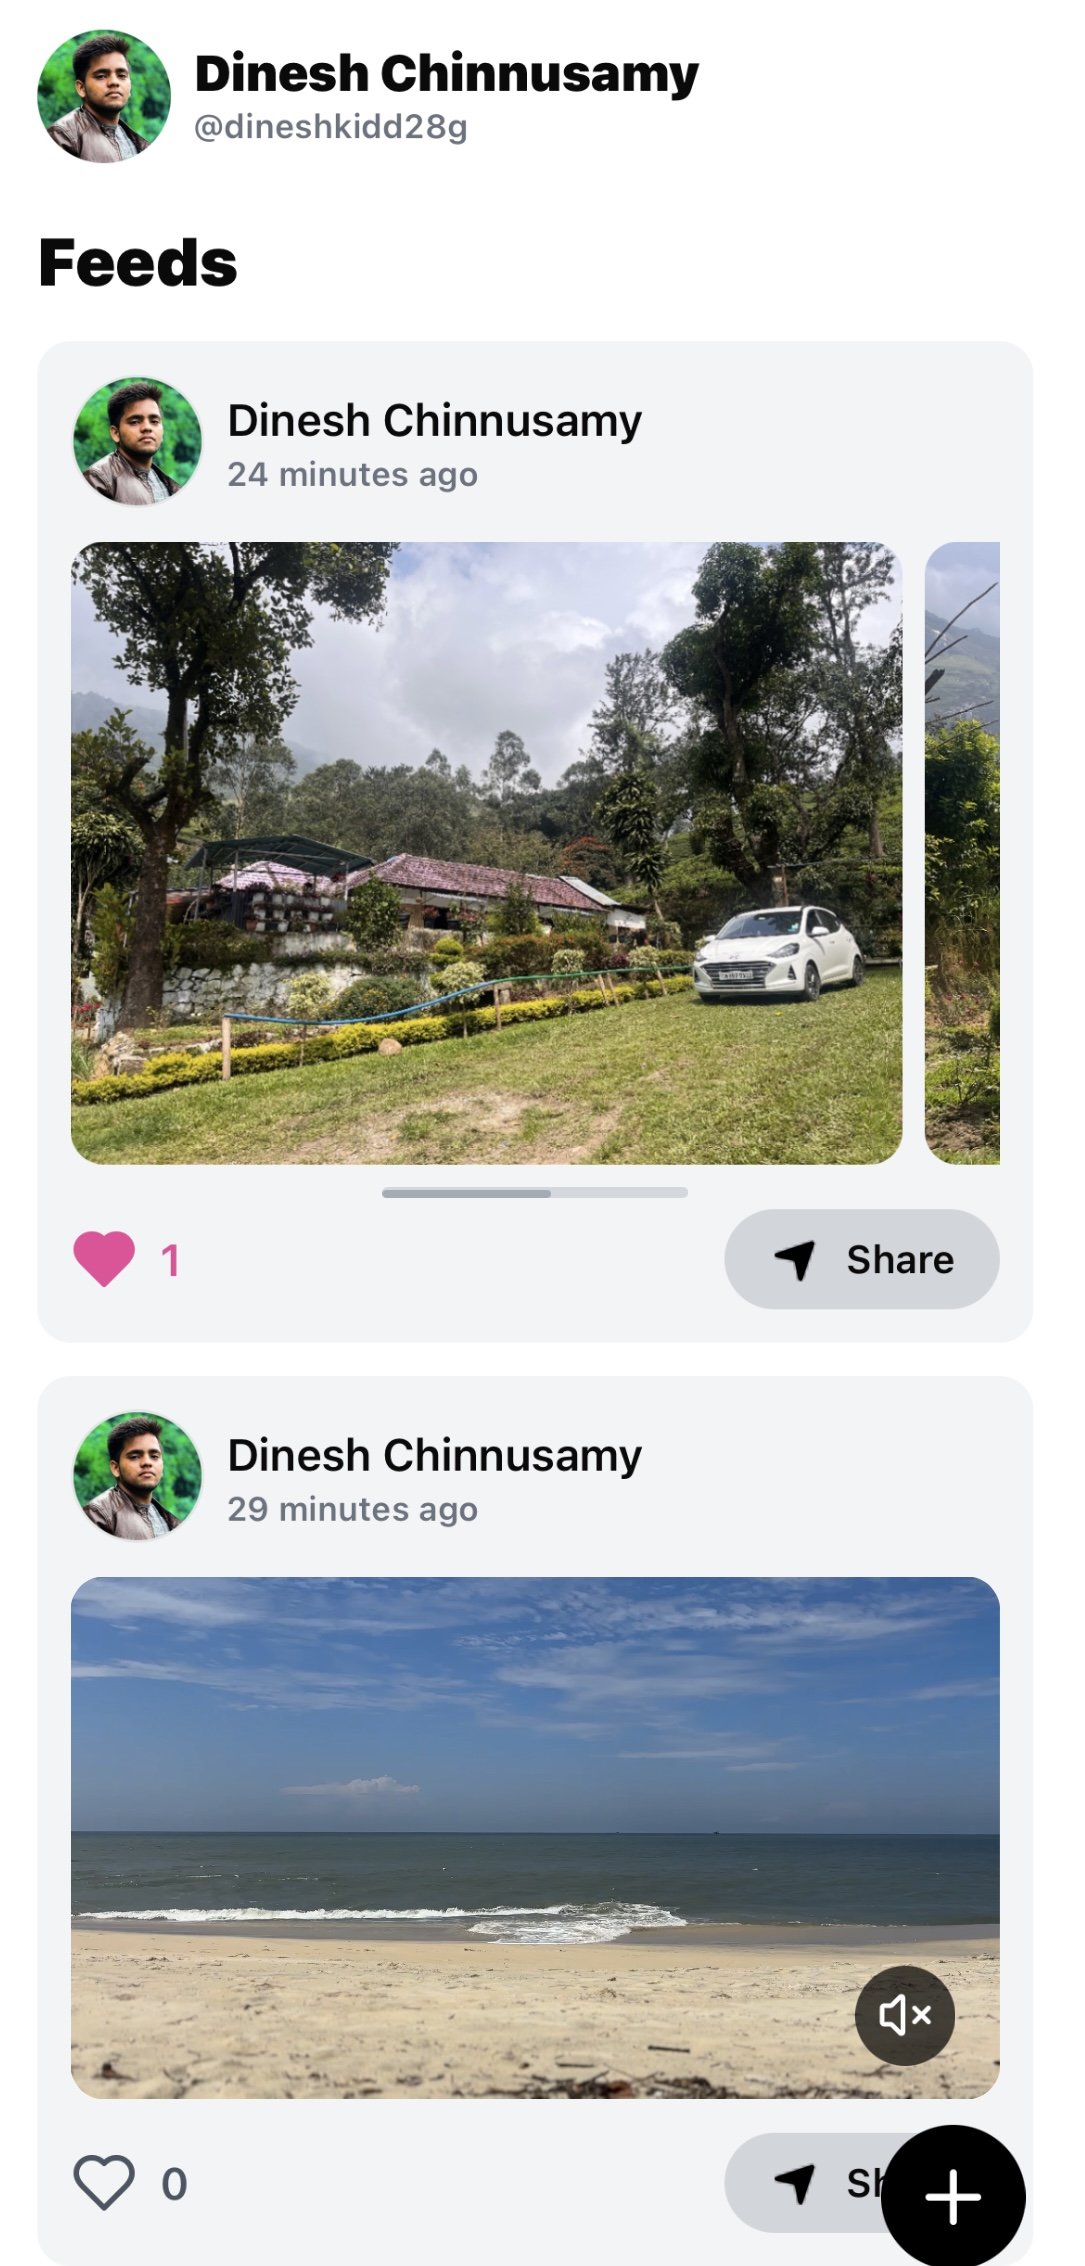
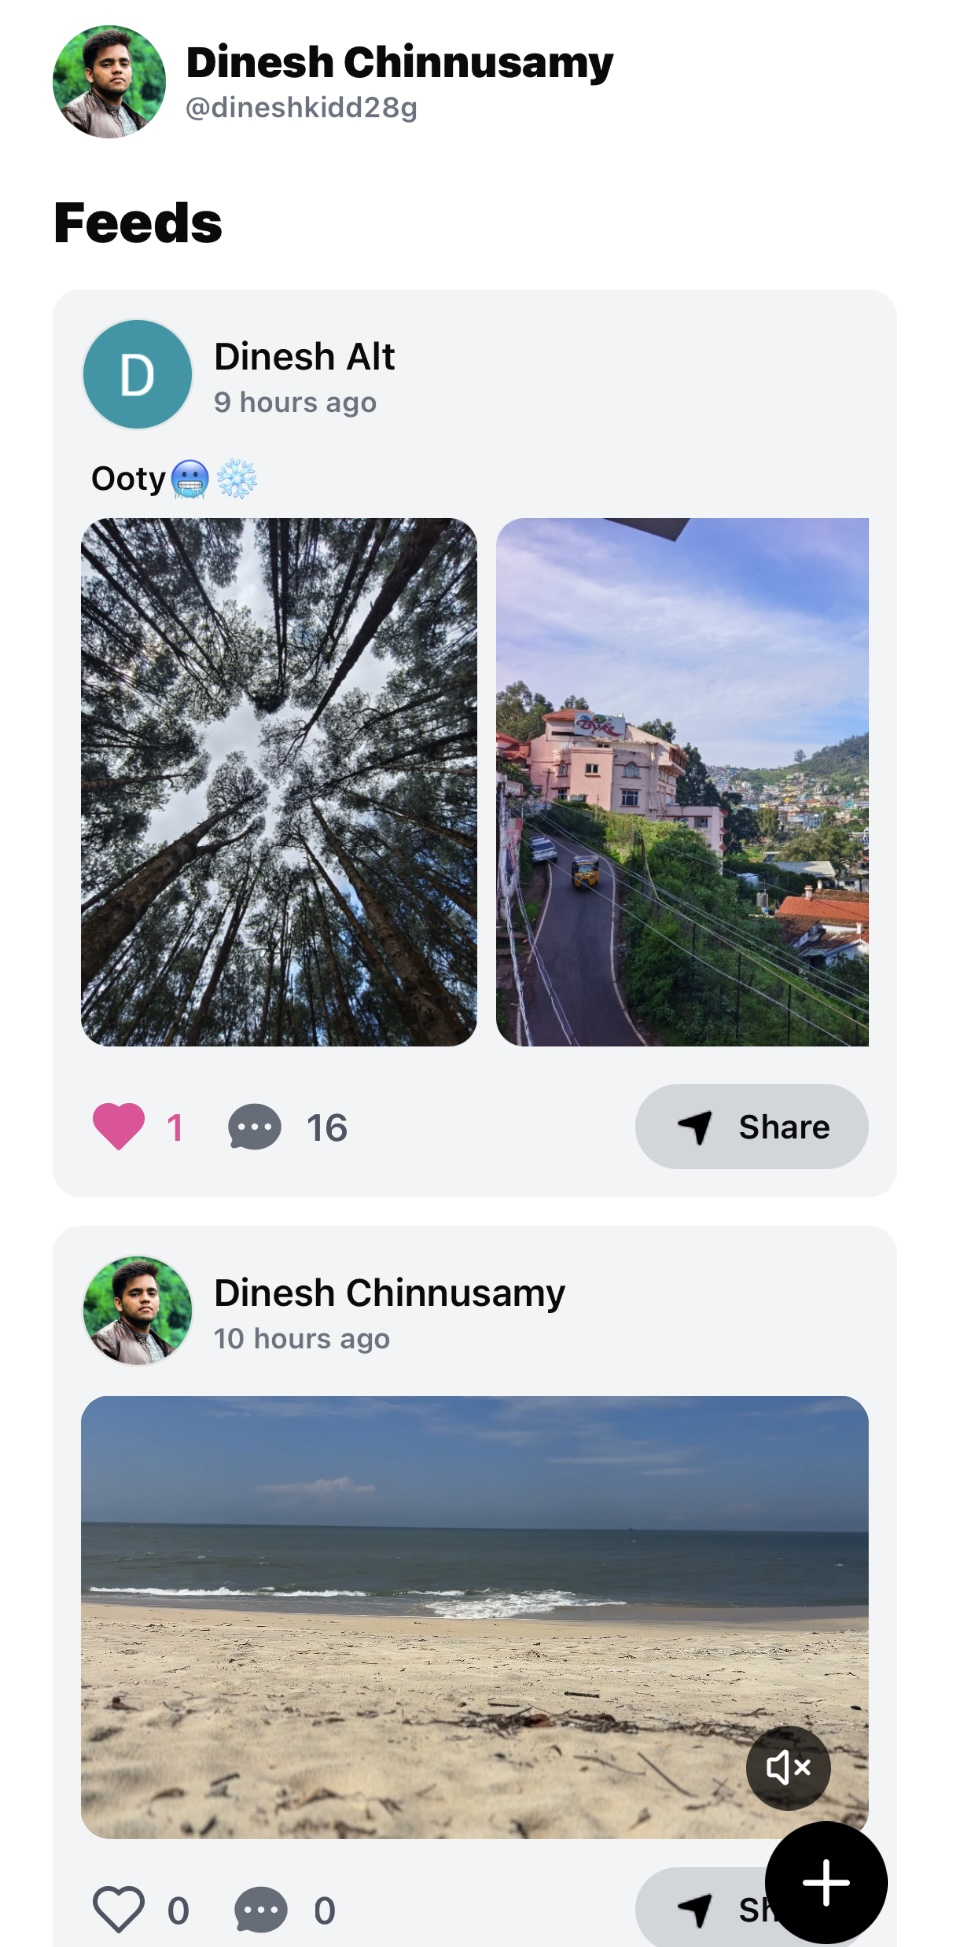
comment section

diff --git a/src/pages/PostPage.jsx b/src/pages/PostPage.jsx
@@ -11,6 +11,7 @@ import ShareDialog from '@/components/Feed/ShareDialog'
 import useFetchPostById from '@/hooks/UseFetchPostById'
 import { useParams, useNavigate,Link } from 'react-router'
 import LoadingPage from './LoadingPage'
+import Comments from '@/components/Post/CommentBox'
 
 export default function PostPage() {
   const navigate = useNavigate();
@@ -21,6 +22,7 @@ export default function PostPage() {
   const [images, setImages] = useState()
   const [type, setType] = useState()
   const [liked, setLiked] = useState()
+  const [commentsCount, setCommentsCount] = useState()
   const [likeCount, setLikeCount] = useState()
   const { data: userProfile, isLoading, error } = useUserInfo(post?.tag, { enabled: !!post });
   const { toggleLike, isLoading: isLiking } = useLikePost(post?.id, tag, { enabled: !!post });
@@ -31,6 +33,7 @@ export default function PostPage() {
       setType(post.type ? post.type : "image")
       setLiked(post.liked.includes(tag))
       setLikeCount(post.liked.length)
+      setCommentsCount(post.comments.length)
     }
   }, [post, isPostLoading])
 
@@ -98,7 +101,7 @@ export default function PostPage() {
   return (
     <div className='max-w-lg   p-3  mx-auto mt-1'>
       <div className=' flex justify-between items-center pb-3 px-1'>
-        <img src="/arrowLeftBlack.svg" className=" w-9 h-9 hover:bg-black/50 rounded-full cursor-pointer" onClick={() => {navigate(-1);}} />
+        <img src="/arrowLeftBlack.svg" className=" w-9 h-9 hover:bg-black/10 rounded-full cursor-pointer" onClick={() => {navigate(-1);}} />
         
         <Link to={`/`} className="text-sm text-blue-500 underline">Go to Your Feed</Link>
 
@@ -165,6 +168,7 @@ export default function PostPage() {
 
         {/* Actions */}
         <div className={`flex items-center justify-between ${images?.length > 1 ? 'mt-1' : 'mt-3'}`}>
+        <div className='flex gap-4 ml-1'>
           <button
             onClick={handleLike}
             className="flex items-center gap-2"
@@ -175,10 +179,15 @@ export default function PostPage() {
             />
             <span className={`${liked ? 'text-pink-500' : 'text-gray-600'}`}>{likeCount}</span>
           </button>
-          <button className="flex items-center gap-2 bg-gray-300 px-4 py-2 rounded-full" onClick={() => setShowModal(true)}>
+          <button className="flex items-center gap-2 cursor-auto">
+          <img src="/comments.svg" className="w-7 h-7 opacity-85" />
+          <span className="text-gray-600">{commentsCount}</span>
+          </button>
+        </div>
+          <p className="flex items-center gap-2 bg-gray-300 px-4 py-2 rounded-full" onClick={() => setShowModal(true)}>
             <img src="/share.svg" className="w-5 h-5" />
             <span className='text-sm'>Share</span>
-          </button>
+          </p>
         </div>
 
         {showModal && (<div
@@ -192,10 +201,9 @@ export default function PostPage() {
           <ShareDialog url={window.location.origin + '/post/' + post.id} setShowModal={setShowModal} handleCopy={handleCopy} />
 
         </div>)}
+        <Comments comments={post.comments} postId={post.id} />
       </div>
-      <div className='max-w-lg p-3 mx-auto mt-3 flex justify-center'>
-      {/* <Link to={`/`} className="text-sm text-blue-500 underline">Go to Feed</Link> */}
-      </div>
+      
     </div>
   )
 }

diff --git a/src/components/Post/CommentBox.jsx b/src/components/Post/CommentBox.jsx
@@ -1,0 +1,52 @@
+import { generateAvatarFallback,generateTag } from "@/utils/generate";
+import { useAuthStore } from "@/stores/authStore";
+import { useUserInfo } from "@/hooks/useUserInfo";
+import { Avatar, AvatarFallback, AvatarImage } from "@/components/ui/avatar"
+import {useState} from 'react';
+import { useAddComment } from "@/hooks/useAddComment";
+import Comment from '@/components/Post/Comment'
+
+export default function CommentBox({ comments, postId }) {
+  const { logout, user } = useAuthStore();
+  const tag = generateTag(user?.email);
+  const [currentComment,setCurrentComment] =useState("");
+  const { data: userProfile, isLoading, error } = useUserInfo(tag);
+  const { addComment, isError } = useAddComment();
+  const revArrComment = [...comments].reverse();
+
+
+  const handleAddComment = async  () =>{
+    if (!currentComment.trim()) return;
+
+    try {
+      await addComment({postId, currentComment, tag});
+      setCurrentComment("");
+      console.log("Comment added successfully!");
+    } catch (error) {
+      console.error("Failed to add comment:", error);
+    }
+
+  };
+  if(isLoading) return; 
+    return <div className="max-w-lg  mx-auto mt-1 ">
+      <h2 className="font-bold text-lg">Comments</h2>
+
+      {revArrComment.length>0 && <div className="pb-10">
+      {revArrComment.map((comment)=>
+        <Comment comment={comment} key={comment.id}/>
+      )}
+      </div>}
+
+      {revArrComment.length == 0 && <p className="text-gray-600">No Comments yet</p>}
+    
+
+    <div className="w-full max-w-lg left-1/2 transform -translate-x-1/2  mr-4  bottom-0 fixed flex bg-gray-200 px-4 py-3 rounded text-white items-center "  >
+      <Avatar className="w-10 h-10">
+                      <AvatarImage src={userProfile?.pp} className="object-cover" />
+                      <AvatarFallback>{generateAvatarFallback(userProfile?.name)}</AvatarFallback>
+      </Avatar>
+      <textarea className="border-b border-black bg-gray-200 w-3/4 outline-none text-black ml-4 rounded-none" value={currentComment}  onChange={(e) => setCurrentComment(e.target.value)} maxLength={100} placeholder="Add a comment..." rows={2}/>
+      {currentComment && <button className="text-blue-700 font-semibold ml-4" onClick={handleAddComment}>Post</button>}
+    </div>
+    </div>
+}

diff --git a/src/components/Feed/Post.jsx b/src/components/Feed/Post.jsx
@@ -19,6 +19,7 @@ export default function Post({ post }) {
   const navigate = useNavigate();
   const [liked, setLiked] = useState(post.liked.includes(tag))
   const [likeCount, setLikeCount] = useState(post.liked.length)
+  const [commentsCount, setCommentsCount] = useState(post.comments.length)
   const { toggleLike, isLoading: isLiking } = useLikePost(post.id, tag);
   const handleLike = () => {
     setLiked(!liked);
@@ -80,7 +81,7 @@ export default function Post({ post }) {
   if (isLoading) return null;
 
   return (
-    <div className="max-w-lg bg-gray-100 rounded-xl p-3 mx-auto mt-3" data-postid={post.id}>
+    <div className="max-w-lg bg-gray-100 rounded-xl p-3 mx-auto mt-3" data-post-id={post.id}>
       {/* Header */}
       <div className="flex items-center gap-2 mb-3">
         <Avatar className="w-12 h-12 border cursor-pointer" onClick={() => navigate(`/profile/${post.tag}`)}>
@@ -141,6 +142,7 @@ export default function Post({ post }) {
 
       {/* Actions */}
       <div className={`flex items-center justify-between ${images.length > 1 ? 'mt-1' : 'mt-3'}`}>
+        <div className='flex gap-4 ml-1'>
         <button
           onClick={handleLike}
           className="flex items-center gap-2"
@@ -151,6 +153,11 @@ export default function Post({ post }) {
           />
           <span className={`${liked ? 'text-pink-500' : 'text-gray-600'}`}>{likeCount}</span>
         </button>
+        <button className="flex items-center gap-2" onClick={() => navigate(`/post/${post.id}`)}>
+          <img src="/comments.svg" className="w-7 h-7 opacity-85" />
+          <span className="text-gray-600">{commentsCount}</span>
+          </button>
+        </div>
         <button className="flex items-center gap-2 bg-gray-300 px-4 py-2 rounded-full" onClick={() => setShowModal(true)}>
           <img src="/share.svg" className="w-5 h-5" />
           <span className='text-sm'>Share</span>

diff --git a/src/components/Post/Comment.jsx b/src/components/Post/Comment.jsx
@@ -1,0 +1,21 @@
+import { generateTimeAgo, generateTag, generateAvatarFallback } from "@/utils/generate"
+import { useUserInfo } from "@/hooks/useUserInfo";
+import { Avatar, AvatarFallback, AvatarImage } from "@/components/ui/avatar"
+import { useNavigate } from "react-router";
+export default function Comment({ comment }) {
+    const navigate = useNavigate();
+    const handleProfileClick=()=>{
+        navigate("/profile/"+userProfile.tag)
+    };
+    const { data: userProfile, isLoading, error } = useUserInfo(comment.tag);
+    return <div className="flex items-center mx-2 space-x-2 my-5 max-w-lg" data-comment-id={comment?.id}>
+        <Avatar className="w-8 h-8 cursor-pointer" onClick={handleProfileClick} >
+            <AvatarImage src={userProfile?.pp} className="object-cover" />
+            <AvatarFallback>{generateAvatarFallback(userProfile?.name)}</AvatarFallback>
+        </Avatar>
+        <div >
+            <p className="leading-tight max-w-lg break-words"><span className="font-semibold hover:underline cursor-pointer" onClick={handleProfileClick}> {userProfile?.name}</span> {comment.comment}</p>
+            <p className="text-xs text-gray-600">{generateTimeAgo(comment.timestamp)}</p>
+        </div>
+    </div>
+}

diff --git a/src/hooks/useAddComment.js b/src/hooks/useAddComment.js
@@ -1,0 +1,45 @@
+import { useMutation, useQueryClient } from '@tanstack/react-query';
+import { doc, updateDoc, arrayUnion } from 'firebase/firestore';
+import { db } from '../services/firestore';
+
+/**
+ * Custom hook to add a comment to an existing post
+ */
+export function useAddComment() {
+  const queryClient = useQueryClient();
+
+  const mutation = useMutation({
+    mutationFn: async ({ postId, currentComment, tag }) => {
+      const postRef = doc(db, 'posts', postId);
+
+      const newComment = {
+        comment:currentComment,
+        id:crypto.randomUUID(),
+        tag,
+        timestamp: Date.now(),
+      };
+
+      await updateDoc(postRef, {
+        comments: arrayUnion(newComment),
+      });
+    },
+    onSuccess: (_, { postId }) => {
+      queryClient.invalidateQueries({ queryKey: ['post', postId] });
+    },
+    onError: (error) => {
+      console.error('Error adding comment:', error);
+    },
+  });
+
+
+  const addComment = ({ postId, currentComment, tag }) => {
+    mutation.mutate({ postId, currentComment, tag });
+  };
+
+  return {
+    addComment,
+    isLoading: mutation.isLoading,
+    isError: mutation.isError,
+    error: mutation.error,
+  };
+}

diff --git a/src/components/Profile/ProfilePosts.jsx b/src/components/Profile/ProfilePosts.jsx
@@ -39,7 +39,7 @@ export default function ProfilePosts({ tag }) {
                                     {item?.text}
                                 </p>
                                 <div className="flex items-center text-white leading-non opacity-65">
-                                    <img src="/heart.svg" className="w-4 h-4 mr-1 " />
+                                    <img src="/heart.svg" className="w-5 h-5 mr-1 " />
                                     <span className=" leading-none">{item.liked.length}</span>
                                 </div>
                             </div>

diff --git a/src/pages/NewPost.jsx b/src/pages/NewPost.jsx
@@ -66,7 +66,7 @@ export default function NewPost() {
     // const isMobile = true;
     return <div className="flex flex-col mx-auto p-2 max-w-screen-md">
         <div className="flex flex-row items-center space-x-2 mb-4 ">
-        <img src="/arrowLeftBlack.svg" className="mr-2 w-9 h-9 cursor-pointer hover:bg-black/50 rounded-full" onClick={() => navigate(-1)} />
+        <img src="/arrowLeftBlack.svg" className="mr-2 w-9 h-9 cursor-pointer hover:bg-black/10 rounded-full" onClick={() => navigate(-1)} />
             <h1 className="font-bold text-center text-xl">New Post</h1>
         </div>
 

diff --git a/src/hooks/useCreatePost.js b/src/hooks/useCreatePost.js
@@ -35,8 +35,8 @@ const useCreatePost = () => {
       if (userId) post.userId = userId;
       if (type) post.type = type;
       post.timestamp = timestamp;
-      post.liked = [];
-
+      post.liked = [];b
+      post.comments = [];
       // Save to Firestore
       const userDocRef = doc(db, "posts", postId);
       await setDoc(userDocRef, post, { merge: true });

diff --git a/README.md b/README.md
@@ -46,10 +46,9 @@
 - [x] Validate that the "My Posts" section displays all posts created by the user.
 
 ### More Features I'm working on
-
 - [ ] Account Following
 - [ ] Filter Feed by Recent, Popular, Following
-- [ ] Comment section
+- [x] Comment section
 - [ ] Client side Video compression
 - [ ] Delete posts
 
